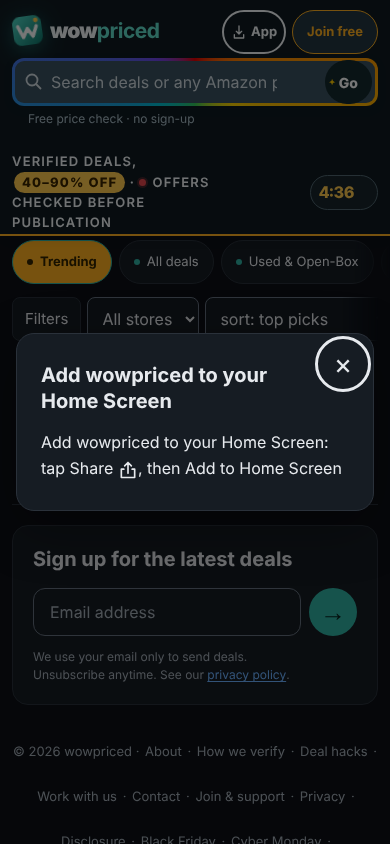
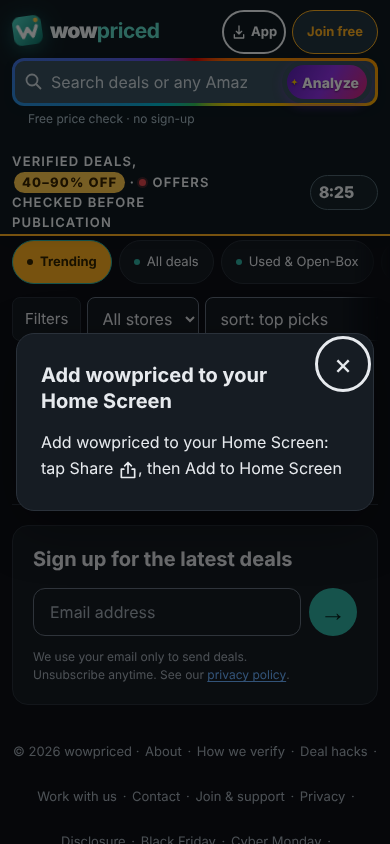
Tidier cards, AI Analyze button, price-drop wording, 10,000 lookups for ad day
Operator 2026-10-18 before the 2pm ad: "make this collapsible ... more
button", "what does in cart mean", "searching ... reached their limit",
"add a word that will make people click ... price drops", "I don't want this
white space", "Analyze ... look like AI ... powers up when you hover",
"I don't like Go. I want the word analyze", "a little bit smaller", "Get the
best price drops from Amazon ... otherwise they can just go to Amazon
directly", "why should I join".

card_tidy (config card_tidy: true; missing/false keeps release bytes):
- "How to get this price" shows the first two steps; exact repeats dropped;
  the rest opens with a "More details" button (homepage, search and Analyze
  related cards share the renderer).
- The in_cart chip reads "price drops in cart".
- Search top button: Search all of Amazon for "q" price drops ->; Analyze's
  top button the same, and "See today's Amazon price drops ->" when no
  lookup is available.
- Analyze: violet->pink AI gradient; on hover/focus/tap a rainbow charge
  rises from the bottom and keeps flowing (still under reduced motion);
  phones say "Analyze" (not "Go") in a smaller pill whose transparent border
  keeps the 44 px tap area; clear button and text padding moved so nothing
  overlaps (Chromium at 360/390/1440).
- Analyze related deals show only cards with a product photo.
- The empty "Looking for more?" filler is hidden while a search shows Amazon
  results; "Join free · price alerts" on screens >= 1500 px.
[…]

Changed region(s): [[0.7385, 0.0616, 0.9538, 0.1232], [0.8, 0.2156, 0.9231, 0.2464], [0.6462, 0.0924, 0.7077, 0.1232]]

diff --git a/dealradar/publish/card_tidy.py b/dealradar/publish/card_tidy.py
@@ -1,0 +1,106 @@
+"""Shorter cards and a livelier search; absent or false preserves release bytes.
+
+Operator 2026-10-18 (before the 2pm ad): long "How to get this price" steps fold behind
+"More details", the "in cart" chip says what it means, the Amazon button names the price
+drops, Analyze looks like AI, and search results run on without an empty filler box.
+"""
+
+import hashlib
+from pathlib import Path
+
+from . import search_analyze, search_box_glow, search_more
+from .template_slots import replace_slot
+
+CSS = ('.how-more{display:inline-flex;align-items:center;min-height:44px;padding:0;border:0;background:none;'
+       'color:var(--accent);font-size:12.5px;font-weight:700;text-decoration:underline;cursor:pointer}'
+       '.how-more:focus-visible{outline:2px solid var(--accent);outline-offset:2px}'
+       # AI colors at rest; on hover/focus/tap a rainbow "charge" rises from the bottom and keeps flowing.
+       '#analyze-search{background:linear-gradient(90deg,#ef4444,#f59e0b,#22c55e,#06b6d4,#8b5cf6,#ec4899,#ef4444) '
+       '0 100%/200% 0% repeat-x,linear-gradient(120deg,#5b21b6,#9333ea 50%,#db2777);color:#fff;'
+       'text-shadow:0 1px 2px rgba(0,0,0,.5);box-shadow:0 3px 10px rgba(147,51,234,.35);'
+       'transition:background-size 1s cubic-bezier(.2,.8,.2,1),box-shadow .3s}'
+       '#analyze-search:hover,#analyze-search:focus-visible,#analyze-search:active{background-size:200% 100%,auto;'
+       'box-shadow:inset 0 0 0 2px rgba(255,255,255,.9),0 0 16px 3px rgba(236,72,153,.55);animation:wpcharge 1.4s linear infinite}'
+       # A smaller pill with space above and below; the transparent border keeps the 44 px tap area.
+       '.searchfield #analyze-search{border:4px solid transparent;background-clip:padding-box;padding:0 14px}'
+       '@keyframes wpcharge{to{background-position:-200% 100%,0 0}}'
+       '@media(prefers-reduced-motion:reduce){#analyze-search{transition:none}'
+       '#analyze-search:hover,#analyze-search:focus-visible,#analyze-search:active{animation:none}}'
+       '#content:has(#search-more) .gridfill{display:none}'
+       '.join-why{display:none}@media(min-width:1500px){.join-why{display:inline}}'
+       # Operator 2026-10-18: phones say "Analyze" too (not "Go"); the clear button and text make room.
+       '@media(max-width:600px){.searchfield .analyze-long{display:inline}.searchfield .analyze-short{display:none}'
+       '.searchfield #analyze-search{padding:0 8px 0 15px;border-width:5px}.searchfield #q{padding-right:130px}'
+       '.searchfield #clearsearch{right:101px}}')
+
+STEPS = '      var steps = (d.how || []).map(esc).join(" &rarr; ");\n'
+SHORT = ('      // At most two steps show; the rest (often repeats from several posts) open on tap.\n'
+         '      var seenStep = {}, allSteps = (d.how || []).filter(function (s) {\n'
+         '        var k = String(s).toLowerCase().replace(/\\W+/g, " ").trim();\n'
+         '        return k && !seenStep[k] && (seenStep[k] = true);\n'
+         '      });\n'
+         '      var steps = allSteps.slice(0, 2).map(esc).join(" &rarr; ") + (allSteps.length > 2\n'
+         '        ? \'<span class="how-rest" hidden> &rarr; \' + allSteps.slice(2).map(esc).join(" &rarr; ") +\n'
+         '          \'</span><br><button type="button" class="how-more" aria-expanded="false">More details</button>\' : "");\n')
+CHIP = 'metarow += \'<span class="chip">\' + esc(c).replace(/_/g, " ") + "</span>";'
+CHIP_NEW = ('metarow += \'<span class="chip">\' + (c === "in_cart" ? "price drops in cart" : '
+            'esc(c).replace(/_/g, " ")) + "</span>";')
+CLICK = ('    if (button) recoverSearch(button.getAttribute("data-search-kind"), button.getAttribute("data-search-value"));\n'
+         '  });\n')
+TOGGLE = ('  document.getElementById("content").addEventListener("click", function (e) {\n'
+          '    var more = e.target.closest && e.target.closest(".how-more");\n'
+          '    if (!more) return;\n'
+          '    var rest = more.parentNode.querySelector(".how-rest");\n'
+          '    rest.hidden = !rest.hidden;\n'
+          '    more.setAttribute("aria-expanded", String(!rest.hidden));\n'
+          '    more.textContent = rest.hidden ? "More details" : "Fewer details";\n'
+          '  });\n')
+TOP = ('" target="_blank" rel="sponsored nofollow noopener">See all &quot;\' +\n'
+       '      esc(q) + \'&quot; on Amazon\\u00a0→</a>')
+TOP_NEW = ('" target="_blank" rel="sponsored nofollow noopener">Search all of Amazon for &quot;\' +\n'
+           '      esc(q) + \'&quot; price drops\\u00a0→</a>')
+
+# Analyze's top Amazon button (task 301): a reason to click through us, not just "Search Amazon".
+ANALYZE_TOP = ('(task.reason ? "Search Amazon" : \'See all &quot;\' + esc(task.asin || searchAmazonQuery() || "products") + '
+               '\'&quot; on Amazon →\')')
+ANALYZE_TOP_NEW = ('(task.reason ? "See today\'s Amazon price drops →" : \'Search all of Amazon for &quot;\' + '
+                   'esc(task.asin || searchAmazonQuery() || "products") + \'&quot; price drops →\')')
+
+# Analyze's related deals: only cards with a product photo (operator 2026-10-18: "images not showing up").
+RELATED = ('(task.related.length ? \'<div class="analyze-related"><h2>Related verified deals</h2><div class="grid">\' +\n'
+           '          task.related.map(cardHtml).join("")')
+RELATED_NEW = ('(task.related.some(function (d) { return d.image_url; }) ? '
+               '\'<div class="analyze-related"><h2>Related verified deals</h2><div class="grid">\' +\n'
+               '          task.related.filter(function (d) { return d.image_url; }).map(cardHtml).join("")')
+
+
+def enabled(cfg):
+    return bool(getattr(cfg, "card_tidy", False))
+
+
+def swap(text, old, new):
+    return replace_slot(text, old, new, template_name="index.html", slot_name="card-tidy")
+
+
+def template(html, cfg):
+    if not enabled(cfg):
+        return html
+    html = html.replace('</style>', CSS + '</style>', 1)
+    html = swap(html, STEPS, SHORT)
+    html = swap(html, CHIP, CHIP_NEW)
+    html = swap(html, CLICK, CLICK + TOGGLE)
+    html = swap(html, '<a id="subscribe" class="getdeal" href="/join">Join free</a>',
+                '<a id="subscribe" class="getdeal" href="/join">Join free<span class="join-why"> · price alerts</span></a>')
+    if search_more.enabled(cfg):
+        html = swap(html, TOP, TOP_NEW)
+    if search_box_glow.enabled(cfg) and search_analyze.enabled(cfg):
+        html = swap(html, ANALYZE_TOP, ANALYZE_TOP_NEW)
+    if search_analyze.enabled(cfg):
+        html = swap(html, RELATED, RELATED_NEW)
+    return html
+
+
+def site_version(version, cfg):
+    if not enabled(cfg):
+        return version
+    return hashlib.sha256(version.encode() + Path(__file__).read_bytes()).hexdigest()[:12]

diff --git a/tests/test_card_tidy.py b/tests/test_card_tidy.py
@@ -1,0 +1,64 @@
+"""card_tidy: folded checkout steps, cart chip wording, AI Analyze colors, no search filler."""
+import json
+import subprocess
+
+import pytest
+
+from dealradar.config import load_config
+from dealradar.publish import card_tidy
+from tests.test_offscreen_cards import offers
+from tests.test_pwa import tree_hash
+from tests.test_search_more import offline  # noqa: F401 (autouse: no network, fixed clock)
+from tests.test_support import render
+
+
+def test_off_and_missing_keep_bytes_on_changes_them(tmp_path):
+    cfg = load_config()
+    hashes = []
+    render(tmp_path, cfg, offers())  # the first render into a fresh state differs in deals.json
+    for value in (False, None, True):
+        if value is None:
+            del cfg.card_tidy
+        else:
+            cfg.card_tidy = value
+        out, *_ = render(tmp_path, cfg, offers())
+        hashes.append(tree_hash(out))
+    assert hashes[0] == hashes[1] != hashes[2]
+
+
+@pytest.mark.parametrize('value', [None, 0, 1, 'true', [], {}])
+def test_strict_config(tmp_path, value):
+    path = tmp_path / 'config.yaml'
+    path.write_text(json.dumps({'card_tidy': value}))
+    with pytest.raises(ValueError, match='^card_tidy must be a boolean$'):
+        load_config(path)
+
+
+def test_shipped_on_and_emitted(tmp_path):
+    cfg = load_config()
+    assert cfg.card_tidy is True
+    out, *_ = render(tmp_path, cfg, offers())
+    page = (out / 'index.html').read_text()
+    analyze = (out / 'search-analyze.js').read_text()
+    assert card_tidy.CSS in page and 'More details' in page and 'price drops in cart' in page
+    assert 'price drops\\u00a0→' in page and 'See all &quot;\' +\n      esc(q)' not in page
+    for phrase in ('busy. Please', 'unavailable right now', 'took too long', 'reached their limit'):
+        assert phrase not in analyze
+    assert 'task.related.filter(function (d) { return d.image_url; })' in analyze and "See today's Amazon price drops →" in analyze
+    assert "Get today's best Amazon price drops." in analyze and 'Analyze</span>' in page
+
+
+def test_steps_fold_after_two_and_toggle():
+    js = card_tidy.SHORT + r'''
+      console.log(JSON.stringify({steps}));'''
+    script = ('function esc(s){return String(s).replace(/</g,"&lt;");}\n'
+              'var d = {how:["Shipping: Free on $35+", "Use code A", "use code a", "Extra 50% off", "In cart"]};\n' + js)
+    out = json.loads(subprocess.run(['node', '-e', script], capture_output=True, text=True, check=True).stdout)
+    steps = out['steps']
+    assert steps.startswith('Shipping: Free on $35+ &rarr; Use code A<span class="how-rest" hidden>')
+    assert steps.count('Use code A') == 1 and 'use code a' not in steps
+    assert 'Extra 50% off &rarr; In cart</span><br><button type="button" class="how-more"' in steps
+    short = ('function esc(s){return s;}\nvar d = {how:["One", "Two"]};\n' + card_tidy.SHORT +
+             'console.log(JSON.stringify({steps}));')
+    assert json.loads(subprocess.run(['node', '-e', short], capture_output=True, text=True,
+                                     check=True).stdout)['steps'] == 'One &rarr; Two'

diff --git a/dealradar/publish/site.py b/dealradar/publish/site.py
@@ -40,6 +40,7 @@ from . import comments
 from . import search_results
 from . import search_boost
 from . import search_box_glow
+from . import card_tidy
 from . import search_circle
 from . import search_analyze
 from . import search_analyze_lazy
@@ -173,6 +174,7 @@ def _page_template(html: str, cfg, *, home: bool = False) -> str:
         html = search_analyze.template(html, cfg)
         html = search_more.template(html, cfg)
         html = search_box_glow.template(html, cfg)
+        html = card_tidy.template(html, cfg)
         from .. import appeal as title_appeal
         from . import open_box
         html = title_appeal.template(html, cfg.front_page.get("appeal") or {})
@@ -1105,6 +1107,7 @@ def render_site(db, cfg, now: datetime, *, out_dir: str | Path | None = None,
     site_version = drop_shuffle.site_version(site_version, cfg)
     site_version = search_analyze_lazy.site_version(site_version, cfg)
     site_version = search_box_glow.site_version(site_version, cfg)
+    site_version = card_tidy.site_version(site_version, cfg)
     site_version = comments.site_version(site_version, cfg)
     if cfg.brand_pages:
         site_version = hashlib.sha256((site_version + "brand-pages").encode()).hexdigest()[:12]

diff --git a/tests/history_pins.py b/tests/history_pins.py
@@ -205,6 +205,7 @@ def pre_task_290_install_raw(config):
     if isinstance(words, list):
         config["publish"]["front_page"]["demote_words"] = [w for w in words if w not in PRE_294_DEMOTE]
     config.pop("search_box_glow", None)
+    config.pop("card_tidy", None)
     config.pop("search_more", None)
     config["search_analyze"] = dict(config.get("search_analyze") or {}, lazy=False)
     config.get("search", {}).pop("tokens_per_day", None)  # default 3000, as recorded
@@ -233,6 +234,7 @@ def pre_task_295(cfg):
     """Before deferred Analyze; preserve every existing publication hash."""
     pre_task_300(cfg)
     pre_task_301(cfg)
+    pre_card_tidy(cfg)
     pre_search_5000(cfg)
     cfg.search_analyze = dict(cfg.search_analyze, lazy=False)
     return cfg
@@ -268,4 +270,10 @@ PRE_294_DEMOTE = {"officially licensed", "nba", "nhl", "nfl", "mlb", "wnba", "nc
 def pre_task_301(cfg):
     """Before the rainbow search field and early Amazon exit; keep recorded hashes."""
     cfg.search_box_glow = False
+    return cfg
+
+
+def pre_card_tidy(cfg):
+    """Before folded checkout steps, the cart chip wording and the AI Analyze colors; no re-pins."""
+    cfg.card_tidy = False
     return cfg

diff --git a/dealradar/config.py b/dealradar/config.py
@@ -356,6 +356,7 @@ class AppConfig:
     search: dict = field(default_factory=lambda: validated_search(None))
     search_boost: dict = field(default_factory=lambda: validated_search_boost(None))
     search_box_glow: bool = False
+    card_tidy: bool = False
     search_circle: bool = False
     search_analyze: dict = field(default_factory=lambda: validated_search_analyze(None))
     search_more: dict = field(default_factory=lambda: validated_search_more(None))
@@ -1054,6 +1055,9 @@ def load_config(path: str | Path | None = None) -> AppConfig:
     cfg.search_box_glow = g("search_box_glow", default=False)
     if type(cfg.search_box_glow) is not bool:
         raise ValueError("search_box_glow must be a boolean")
+    cfg.card_tidy = g("card_tidy", default=False)
+    if type(cfg.card_tidy) is not bool:
+        raise ValueError("card_tidy must be a boolean")
     cfg.search_circle = g("search_circle", default=False)
     if type(cfg.search_circle) is not bool:
         raise ValueError("search_circle must be a boolean")

diff --git a/dealradar/publish/search_box_glow.py b/dealradar/publish/search_box_glow.py
@@ -24,7 +24,7 @@ CSS = ('.searchfield{isolation:isolate}'
        '#analyze-search::after{display:none}}')
 
 
-BUDGET = "Get today's price straight from Amazon."
+BUDGET = "Get today's best Amazon price drops."
 
 
 def enabled(cfg):
@@ -57,6 +57,11 @@ def template(html, cfg):
         # Operator 2026-10-18: visitor wording never says "limit".
         html = swap(html, 'budget_exhausted:"Today\'s live price checks have reached their limit."',
                     'budget_exhausted:"' + BUDGET + '"')
+        # Operator 2026-10-18: no "busy", "unavailable" or "too long" either; the Amazon button sits right below.
+        for text, count in (("Live price checks are busy. Please try again shortly.", 2),
+                            ("Live price checks are unavailable right now.", 4),
+                            ("The price check took too long. Please try again.", 1)):
+            html = replace_slot(html, text, BUDGET, count, template_name="index.html", slot_name="search-box-glow")
     return html
 
 

diff --git a/tests/test_search_results.py b/tests/test_search_results.py
@@ -40,7 +40,7 @@ def test_config_switch_and_shipped_defaults(tmp_path, mode):
     assert load_config(path).search["amazon_results"] == expected
     assert AppConfig().search["amazon_results"] == "off"
     assert load_config().search == {"amazon_results": "on", "cache_hours": 6,
-                                    "tokens_per_day": 5000, "max_per_minute": 20}
+                                    "tokens_per_day": 10000, "max_per_minute": 20}
 
 
 @pytest.mark.parametrize("value", [[], "private", 1, {"amazon_results": "bad"},

diff --git a/tests/test_drop_shuffle.py b/tests/test_drop_shuffle.py
@@ -20,6 +20,8 @@ def config(mode="support"):
     # Isolate the drop rollback from task 300's separate search_more change and task 301's glow.
     cfg.search_more = {"enabled": False}
     cfg.search_box_glow = False
+    cfg.card_tidy = False
+    cfg.search = dict(cfg.search, tokens_per_day=5000)  # recorded before the ad-day raise
     cfg.support_enabled = mode == "support"
     cfg.paywall_open_access = mode != "membership"
     cfg.strip_comments = mode != "unstripped"

diff --git a/tests/test_search_box_glow.py b/tests/test_search_box_glow.py
@@ -21,6 +21,9 @@ MOVED = ['current', 'current-inline']
 def config(mode):
     cfg = load_config() if mode.startswith('current') else more_config(mode)
     cfg.drop_shuffle = False
+    cfg.card_tidy = False
+    if mode.startswith('current'):
+        cfg.search = dict(cfg.search, tokens_per_day=5000)  # recorded before the ad-day raise
     if mode.endswith('inline'):
         cfg.search_analyze['lazy'] = False
     if mode.endswith('more-off'):
